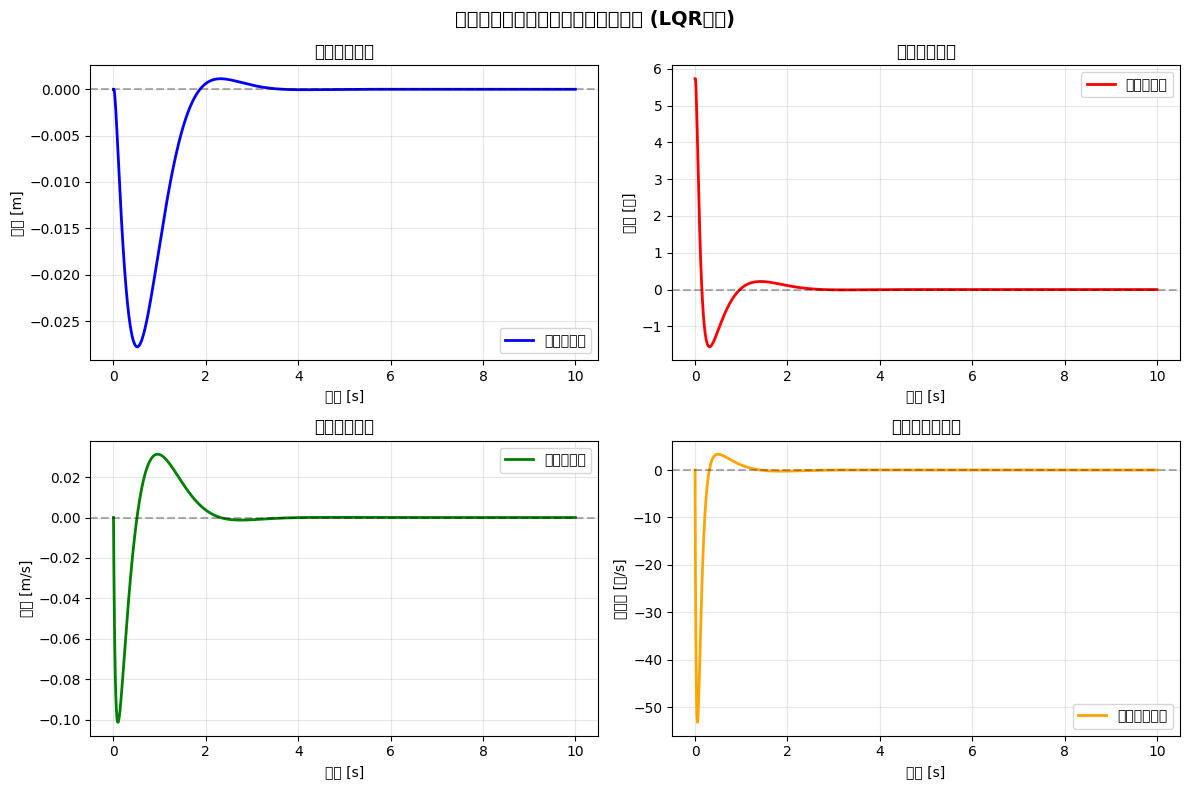
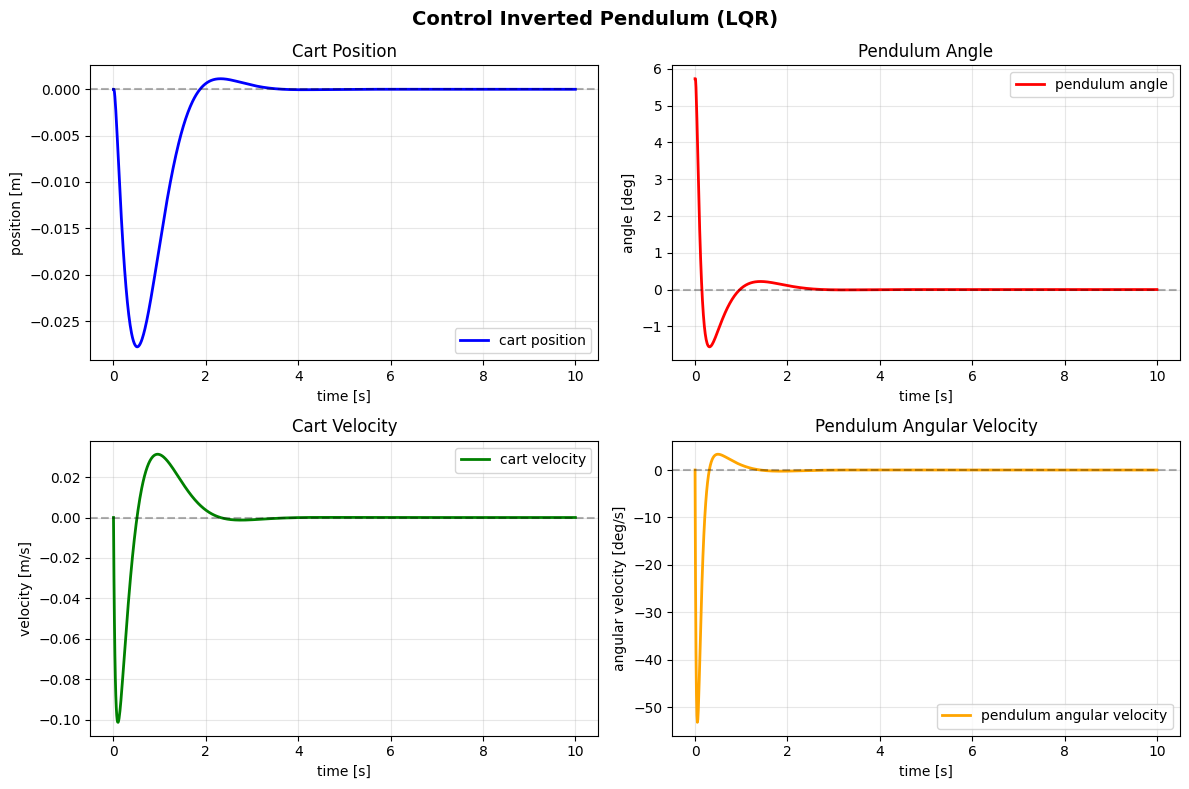
modify inverted_pendulum_control.py

diff --git a/control_inverted_pendulum.py b/control_inverted_pendulum.py
@@ -245,45 +245,45 @@ if 'Agg' not in matplotlib_backend:
     matplotlib.use('Agg')
 
 fig, axes = plt.subplots(2, 2, figsize=(12, 8))
-fig.suptitle('倒立振り子の制御シミュレーション (LQR制御)', fontsize=14, fontweight='bold')
+fig.suptitle('Control Inverted Pendulum (LQR)', fontsize=14, fontweight='bold')
 
 # プロット1: カート位置
 ax = axes[0, 0]
-ax.plot(t, x_lqr[:, 0], 'b-', linewidth=2, label='カート位置')
+ax.plot(t, x_lqr[:, 0], 'b-', linewidth=2, label='cart position')
 ax.axhline(y=0, color='k', linestyle='--', alpha=0.3)
-ax.set_xlabel('時間 [s]')
-ax.set_ylabel('位置 [m]')
-ax.set_title('カートの位置')
+ax.set_xlabel('time [s]')
+ax.set_ylabel('position [m]')
+ax.set_title('Cart Position')
 ax.grid(True, alpha=0.3)
 ax.legend()
 
 # プロット2: 振り子角度
 ax = axes[0, 1]
-ax.plot(t, np.degrees(x_lqr[:, 2]), 'r-', linewidth=2, label='振り子角度')
+ax.plot(t, np.degrees(x_lqr[:, 2]), 'r-', linewidth=2, label='pendulum angle')
 ax.axhline(y=0, color='k', linestyle='--', alpha=0.3)
-ax.set_xlabel('時間 [s]')
-ax.set_ylabel('角度 [度]')
-ax.set_title('振り子の角度')
+ax.set_xlabel('time [s]')
+ax.set_ylabel('angle [deg]')
+ax.set_title('Pendulum Angle')
 ax.grid(True, alpha=0.3)
 ax.legend()
 
 # プロット3: カート速度
 ax = axes[1, 0]
-ax.plot(t, x_lqr[:, 1], 'g-', linewidth=2, label='カート速度')
+ax.plot(t, x_lqr[:, 1], 'g-', linewidth=2, label='cart velocity')
 ax.axhline(y=0, color='k', linestyle='--', alpha=0.3)
-ax.set_xlabel('時間 [s]')
-ax.set_ylabel('速度 [m/s]')
-ax.set_title('カートの速度')
+ax.set_xlabel('time [s]')
+ax.set_ylabel('velocity [m/s]')
+ax.set_title('Cart Velocity')
 ax.grid(True, alpha=0.3)
 ax.legend()
 
 # プロット4: 振り子角速度
 ax = axes[1, 1]
-ax.plot(t, np.degrees(x_lqr[:, 3]), 'orange', linewidth=2, label='振り子角速度')
+ax.plot(t, np.degrees(x_lqr[:, 3]), 'orange', linewidth=2, label='pendulum angular velocity')
 ax.axhline(y=0, color='k', linestyle='--', alpha=0.3)
-ax.set_xlabel('時間 [s]')
-ax.set_ylabel('角速度 [度/s]')
-ax.set_title('振り子の角速度')
+ax.set_xlabel('time [s]')
+ax.set_ylabel('angular velocity [deg/s]')
+ax.set_title('Pendulum Angular Velocity')
 ax.grid(True, alpha=0.3)
 ax.legend()
 
